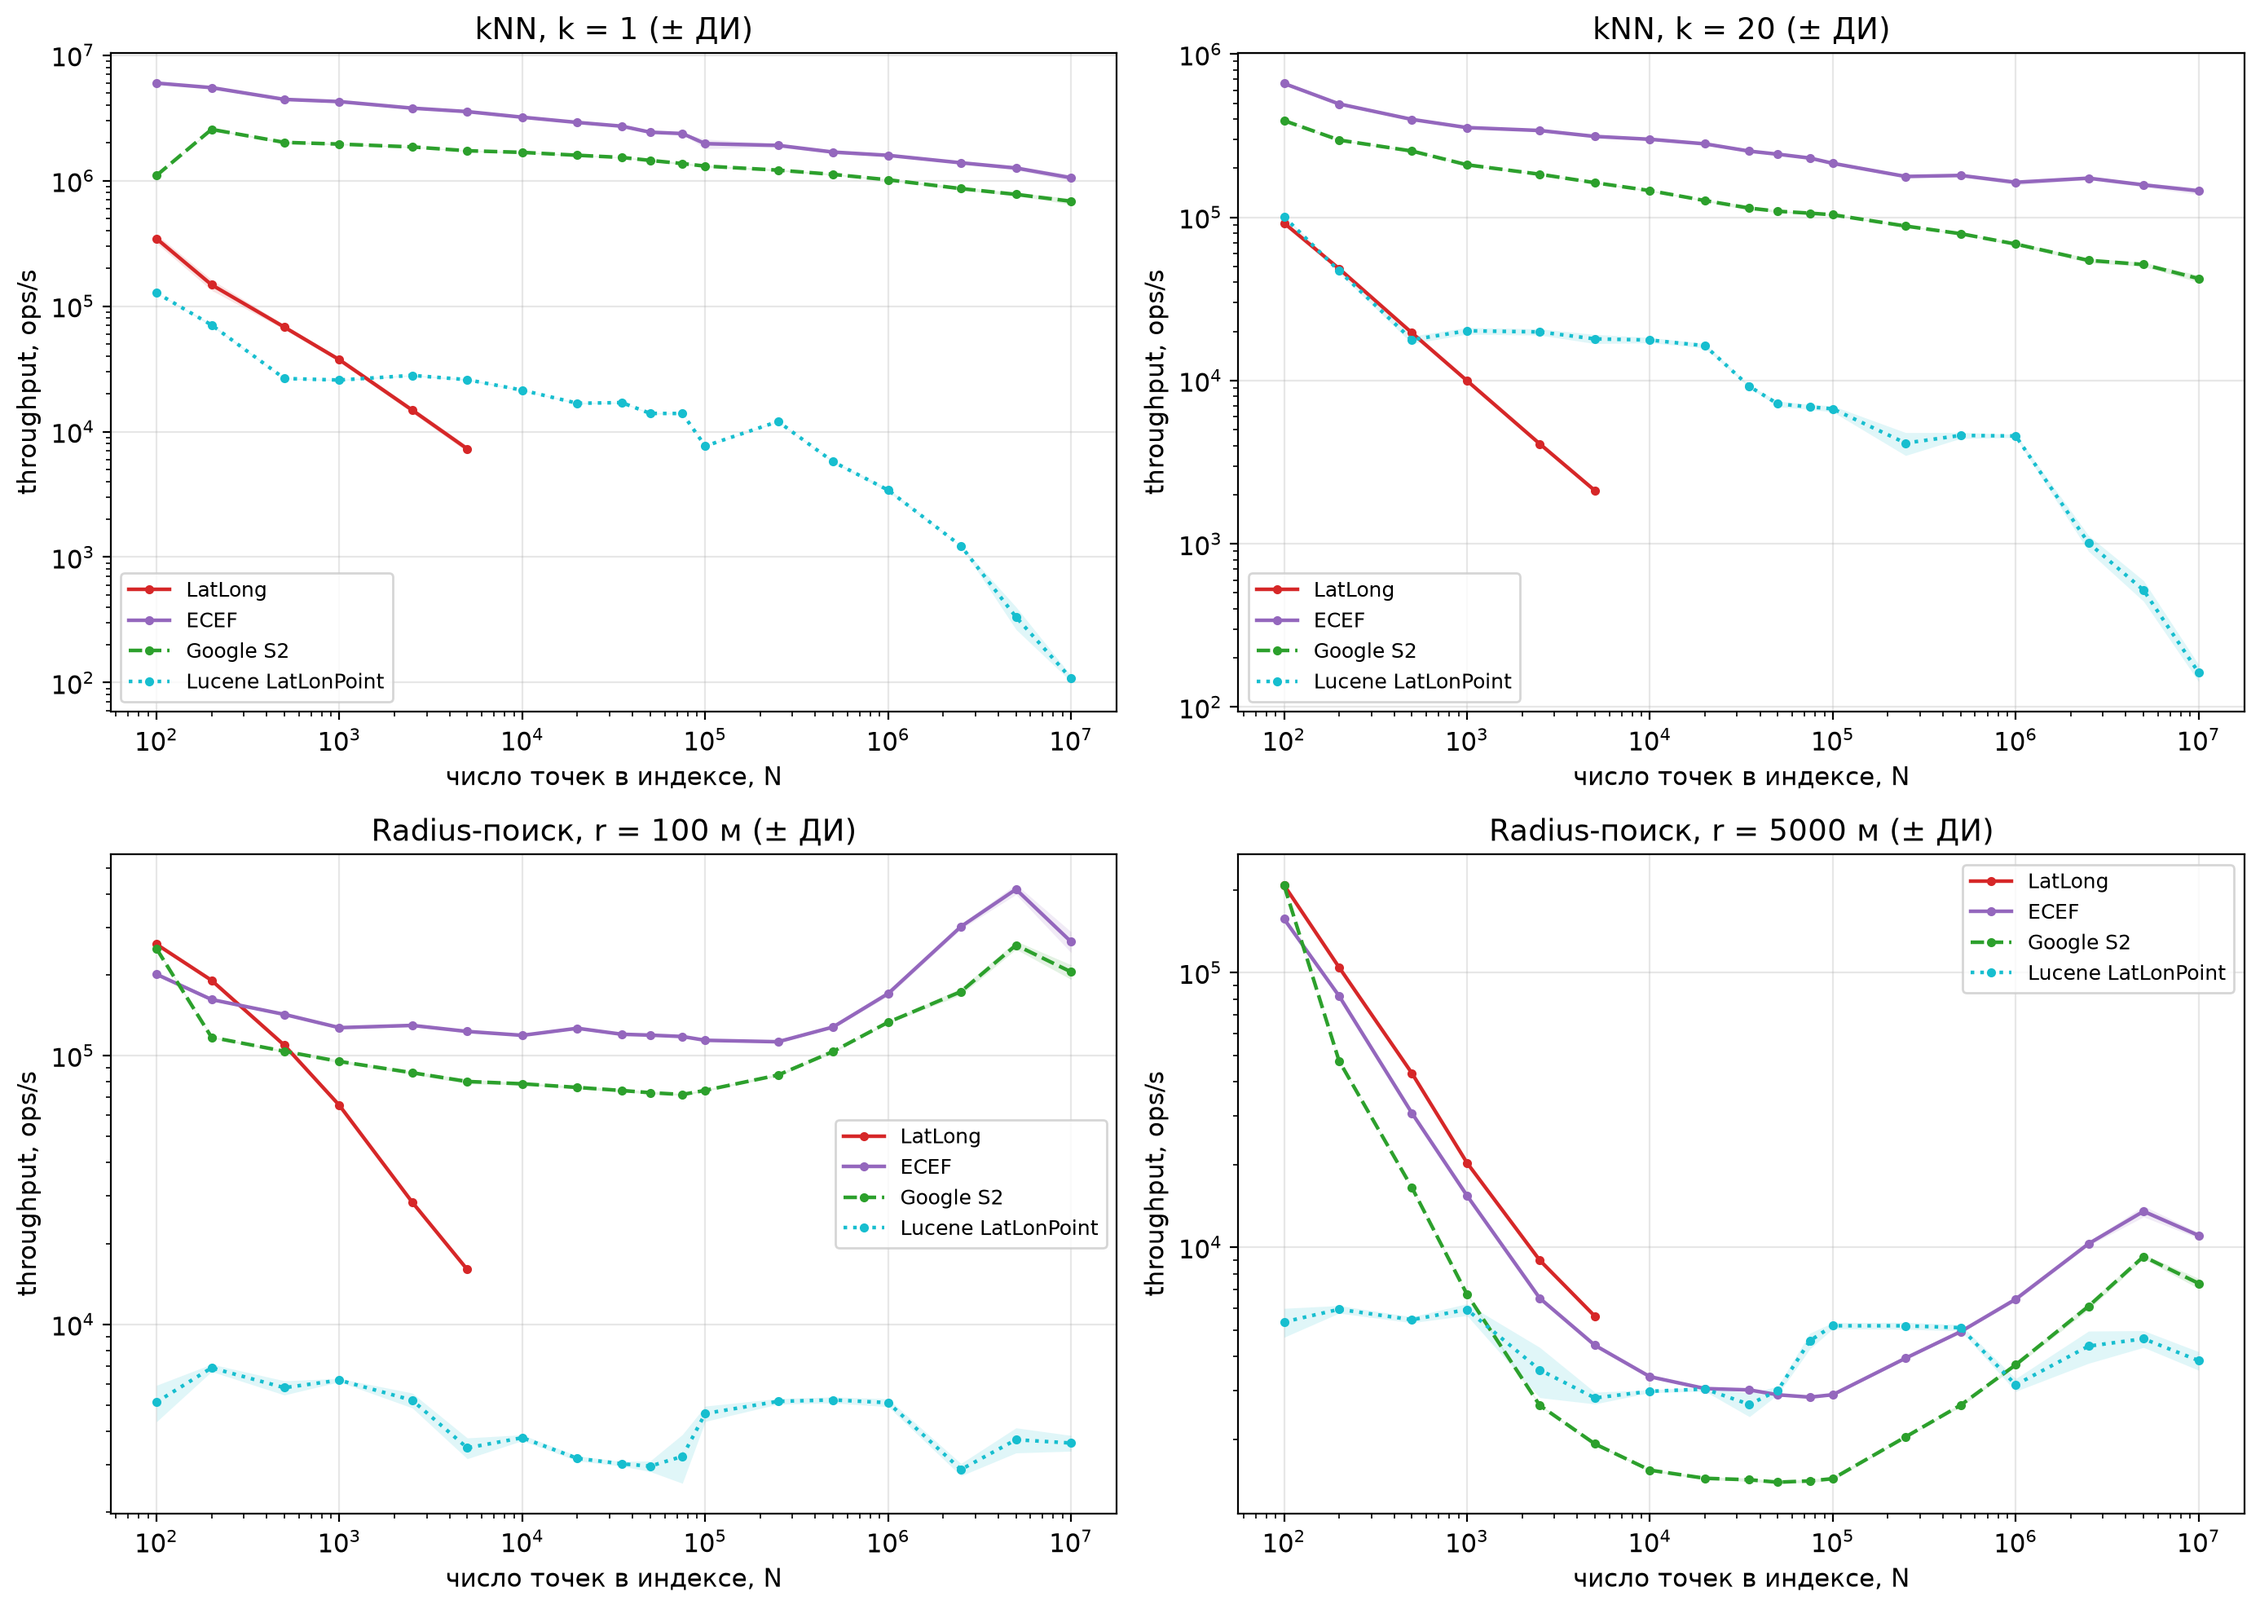
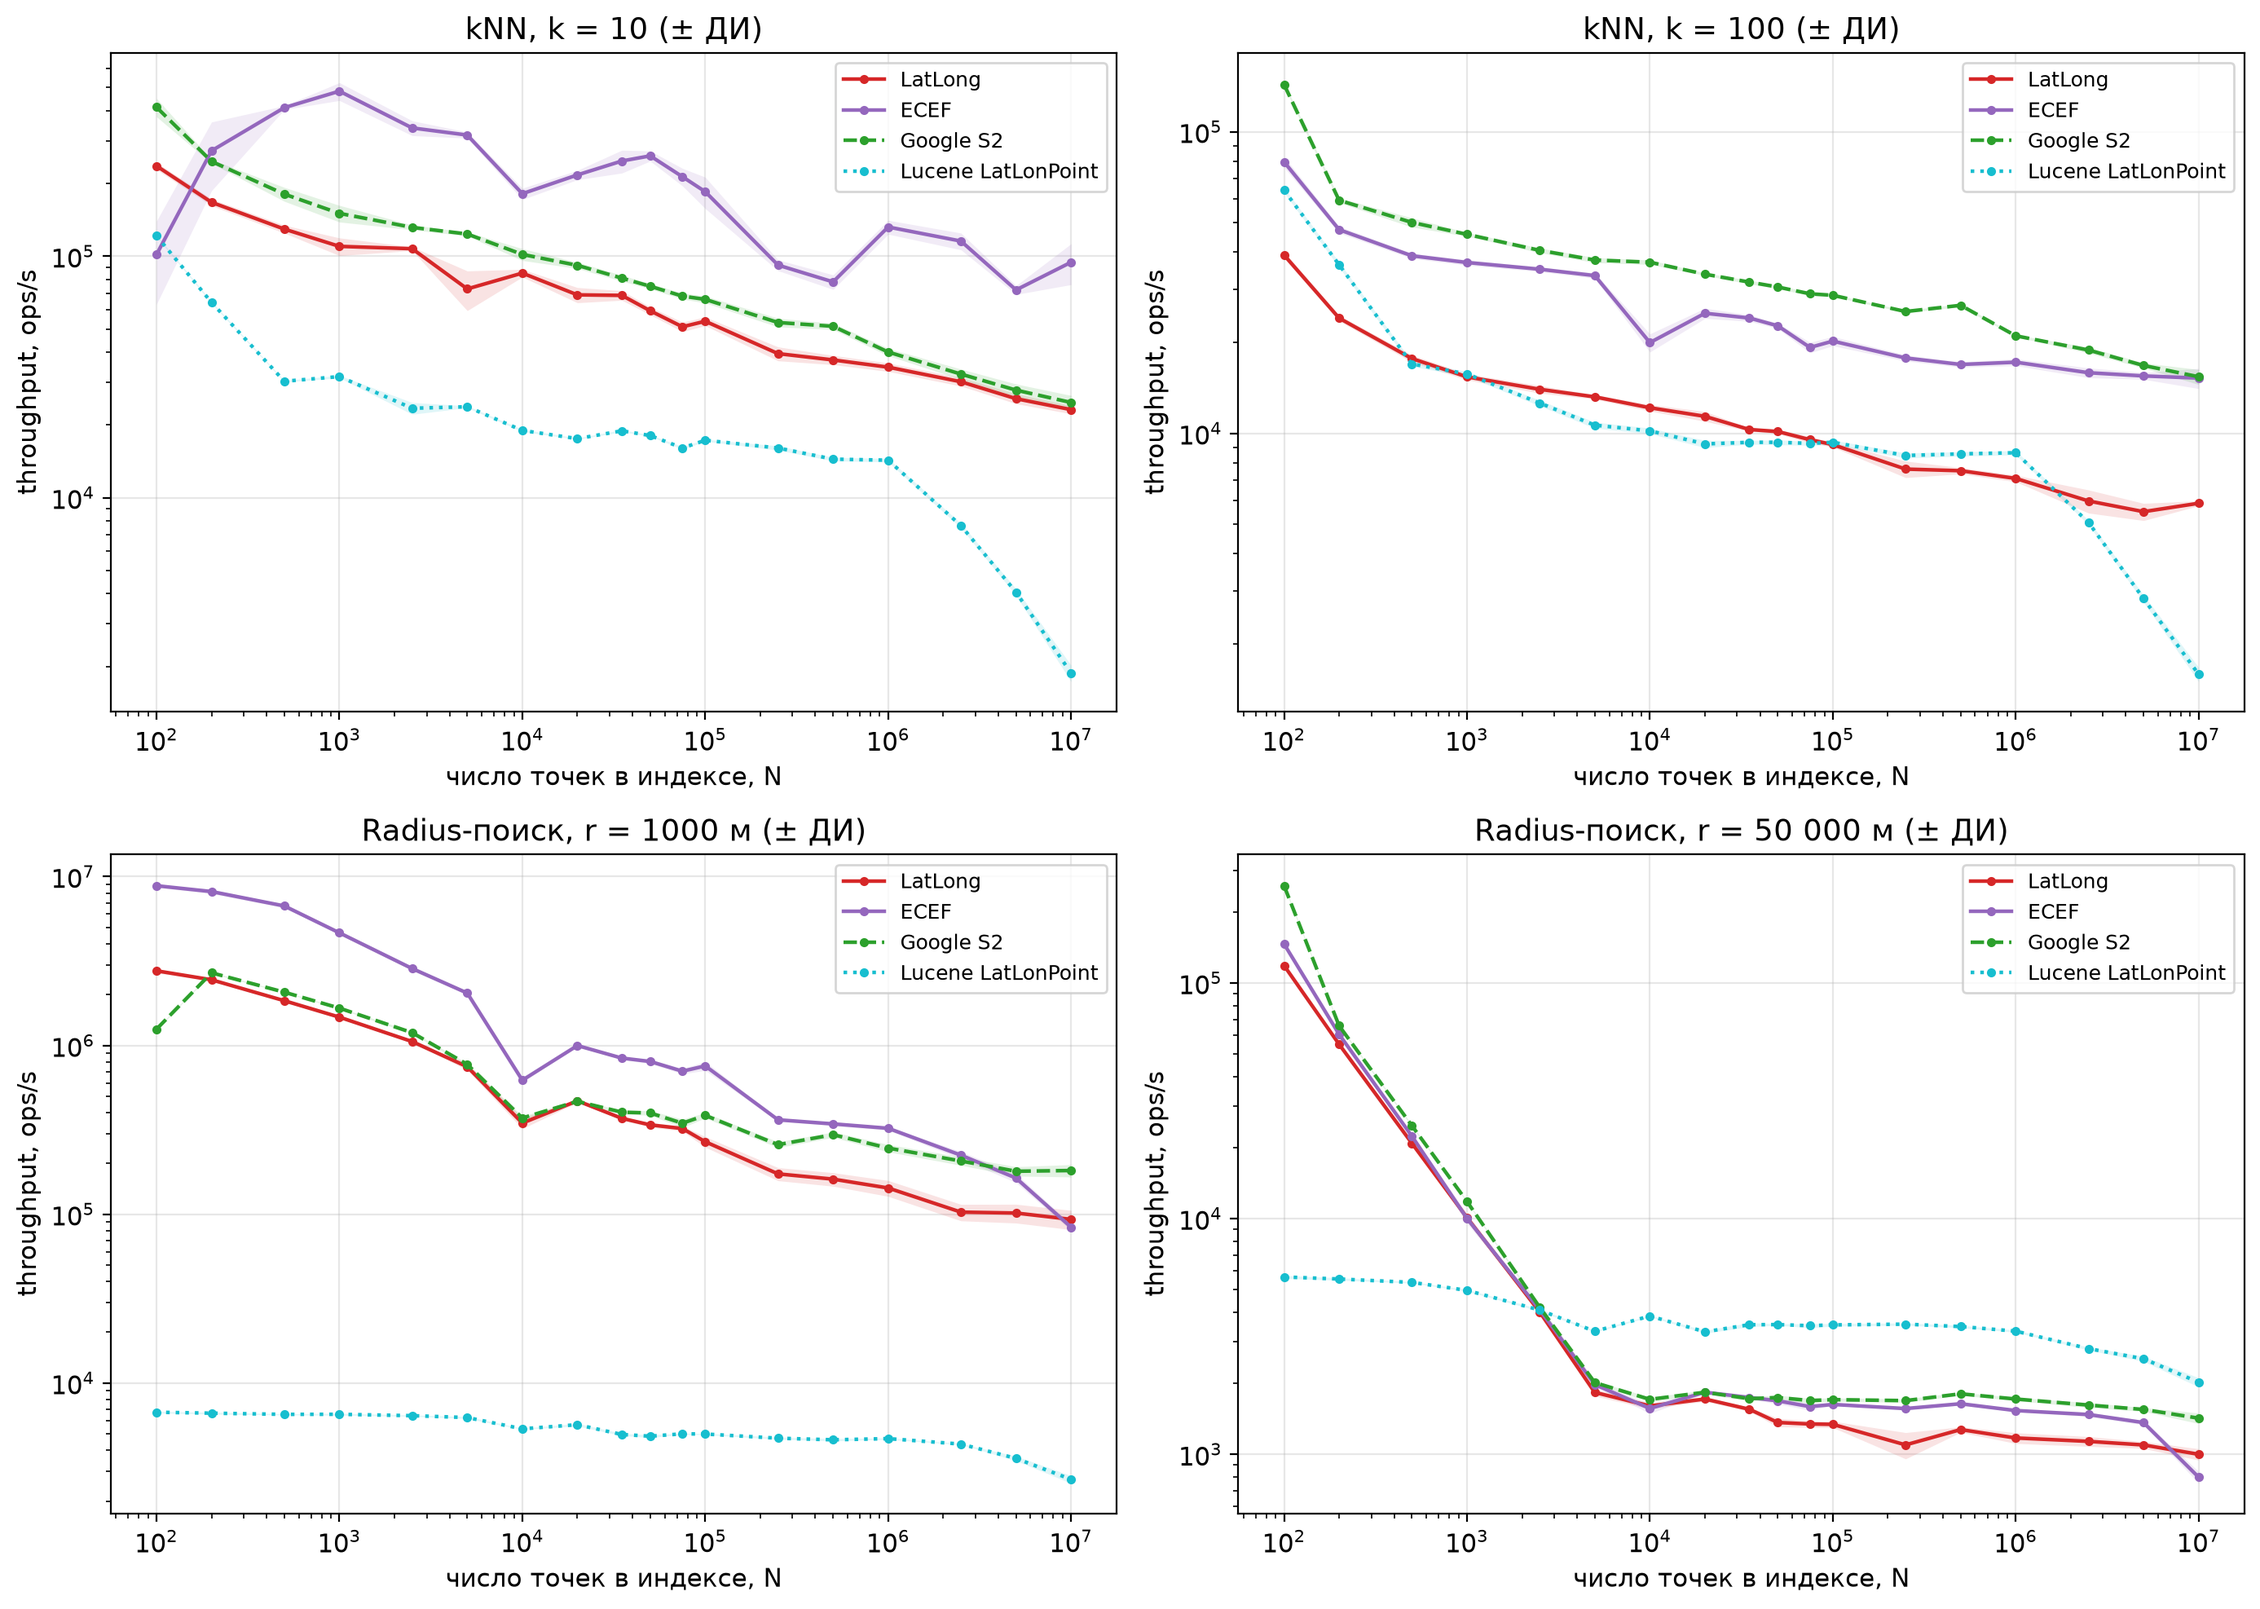
docs: final crossover map on clustered data

diff --git a/lab-1-java-geo-kdtree/tools/make_ecef_charts.py b/lab-1-java-geo-kdtree/tools/make_ecef_charts.py
@@ -339,10 +339,10 @@ def chart_tenm():
         ("Lucene LatLonPoint", lucene, "queryLucene", "#17becf", ":"),
     ]
     panels = [
-        ("knn", "1", "kNN, k = 1"),
-        ("knn", "20", "kNN, k = 20"),
-        ("radius", "100", "Radius-поиск, r = 100 м"),
-        ("radius", "5000", "Radius-поиск, r = 5000 м"),
+        ("knn", "10", "kNN, k = 10"),
+        ("knn", "100", "kNN, k = 100"),
+        ("radius", "1000", "Radius-поиск, r = 1000 м"),
+        ("radius", "50000", "Radius-поиск, r = 50 000 м"),
     ]
     out = CHARTS / "tenm"
     out.mkdir(parents=True, exist_ok=True)
